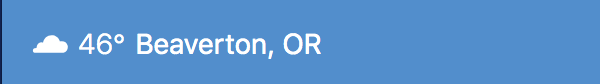
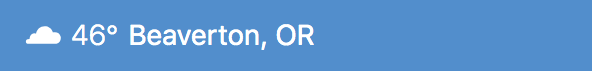
add media quries

Changed region(s): [[0.0, 0.0, 0.5473, 1.0], [0.973, 0.0, 1.0, 1.0]]

diff --git a/src/app/nav-bar/nav-bar.component.scss b/src/app/nav-bar/nav-bar.component.scss
@@ -19,10 +19,10 @@ div {
         height: 60px;
       }
       .inputLength {
-        width: 90%;
+        width: 100%;
         height: 60px;
         #input {
-          width: 362px;
+          width: 382px;
           height: 40px;
           margin-top: 5px;
           display: flex;
@@ -34,7 +34,7 @@ div {
             margin-bottom: 10px;
           }
           #searchInput {
-            width: 307px;
+            width: 320px;
             height: 20px;
             font-size: 16px;
             margin-top: 12px;
@@ -86,6 +86,8 @@ div {
       background-color: rgb(82,142,204);
       img {
         width: 299px;
+        margin-top: 3px;
+        border-right: 1px solid white;
       }
     }
   }
@@ -114,5 +116,50 @@ div {
       }
 
     }
+  }
+}
+
+@media screen and (max-width: 770px) {
+  .menu {
+    width: 60px;
+    #us {
+      display: none;
+    }
+  }
+}
+
+@media screen and (max-width: 640px) {
+  #more {
+    display: none;
+  }
+}
+@media screen and (max-width: 600px) {
+  #maps {
+    display: none;
+  }
+}
+@media screen and (max-width: 530px) {
+  #monthly {
+    display: none;
+  }
+}
+@media screen and (max-width: 450px) {
+  #weekend {
+    display: none;
+  }
+}
+@media screen and (max-width: 360px) {
+  #tenday {
+    display: none;
+  }
+}
+@media screen and (max-width: 287px) {
+  #fiveday {
+    display: none;
+  }
+}
+@media screen and (max-width: 220px) {
+  #hourly {
+    display: none;
   }
 }

diff --git a/src/app/nav-bar/nav-bar.component.html b/src/app/nav-bar/nav-bar.component.html
@@ -25,14 +25,14 @@
   <div class="bottom-nav">
     <div class="bottom-nav-width">
       <ul>
-        <a><li>Today</li></a>
-        <a><li>Hourly</li></a>
-        <a><li>5 Day</li></a>
-        <a><li>10 Day</li></a>
-        <a><li>Weekend</li></a>
-        <a><li>Monthly</li></a>
-        <a><li>Maps</li></a>
-        <a><li>More Forecasts</li></a>
+        <a id='today'><li>Today</li></a>
+        <a id='hourly'><li>Hourly</li></a>
+        <a id='fiveday'><li>5 Day</li></a>
+        <a id='tenday'><li>10 Day</li></a>
+        <a id='weekend'><li>Weekend</li></a>
+        <a id='monthly'><li>Monthly</li></a>
+        <a id='maps'><li>Maps</li></a>
+        <a id='more'><li>More Forecasts</li></a>
       </ul>
 
     </div>
